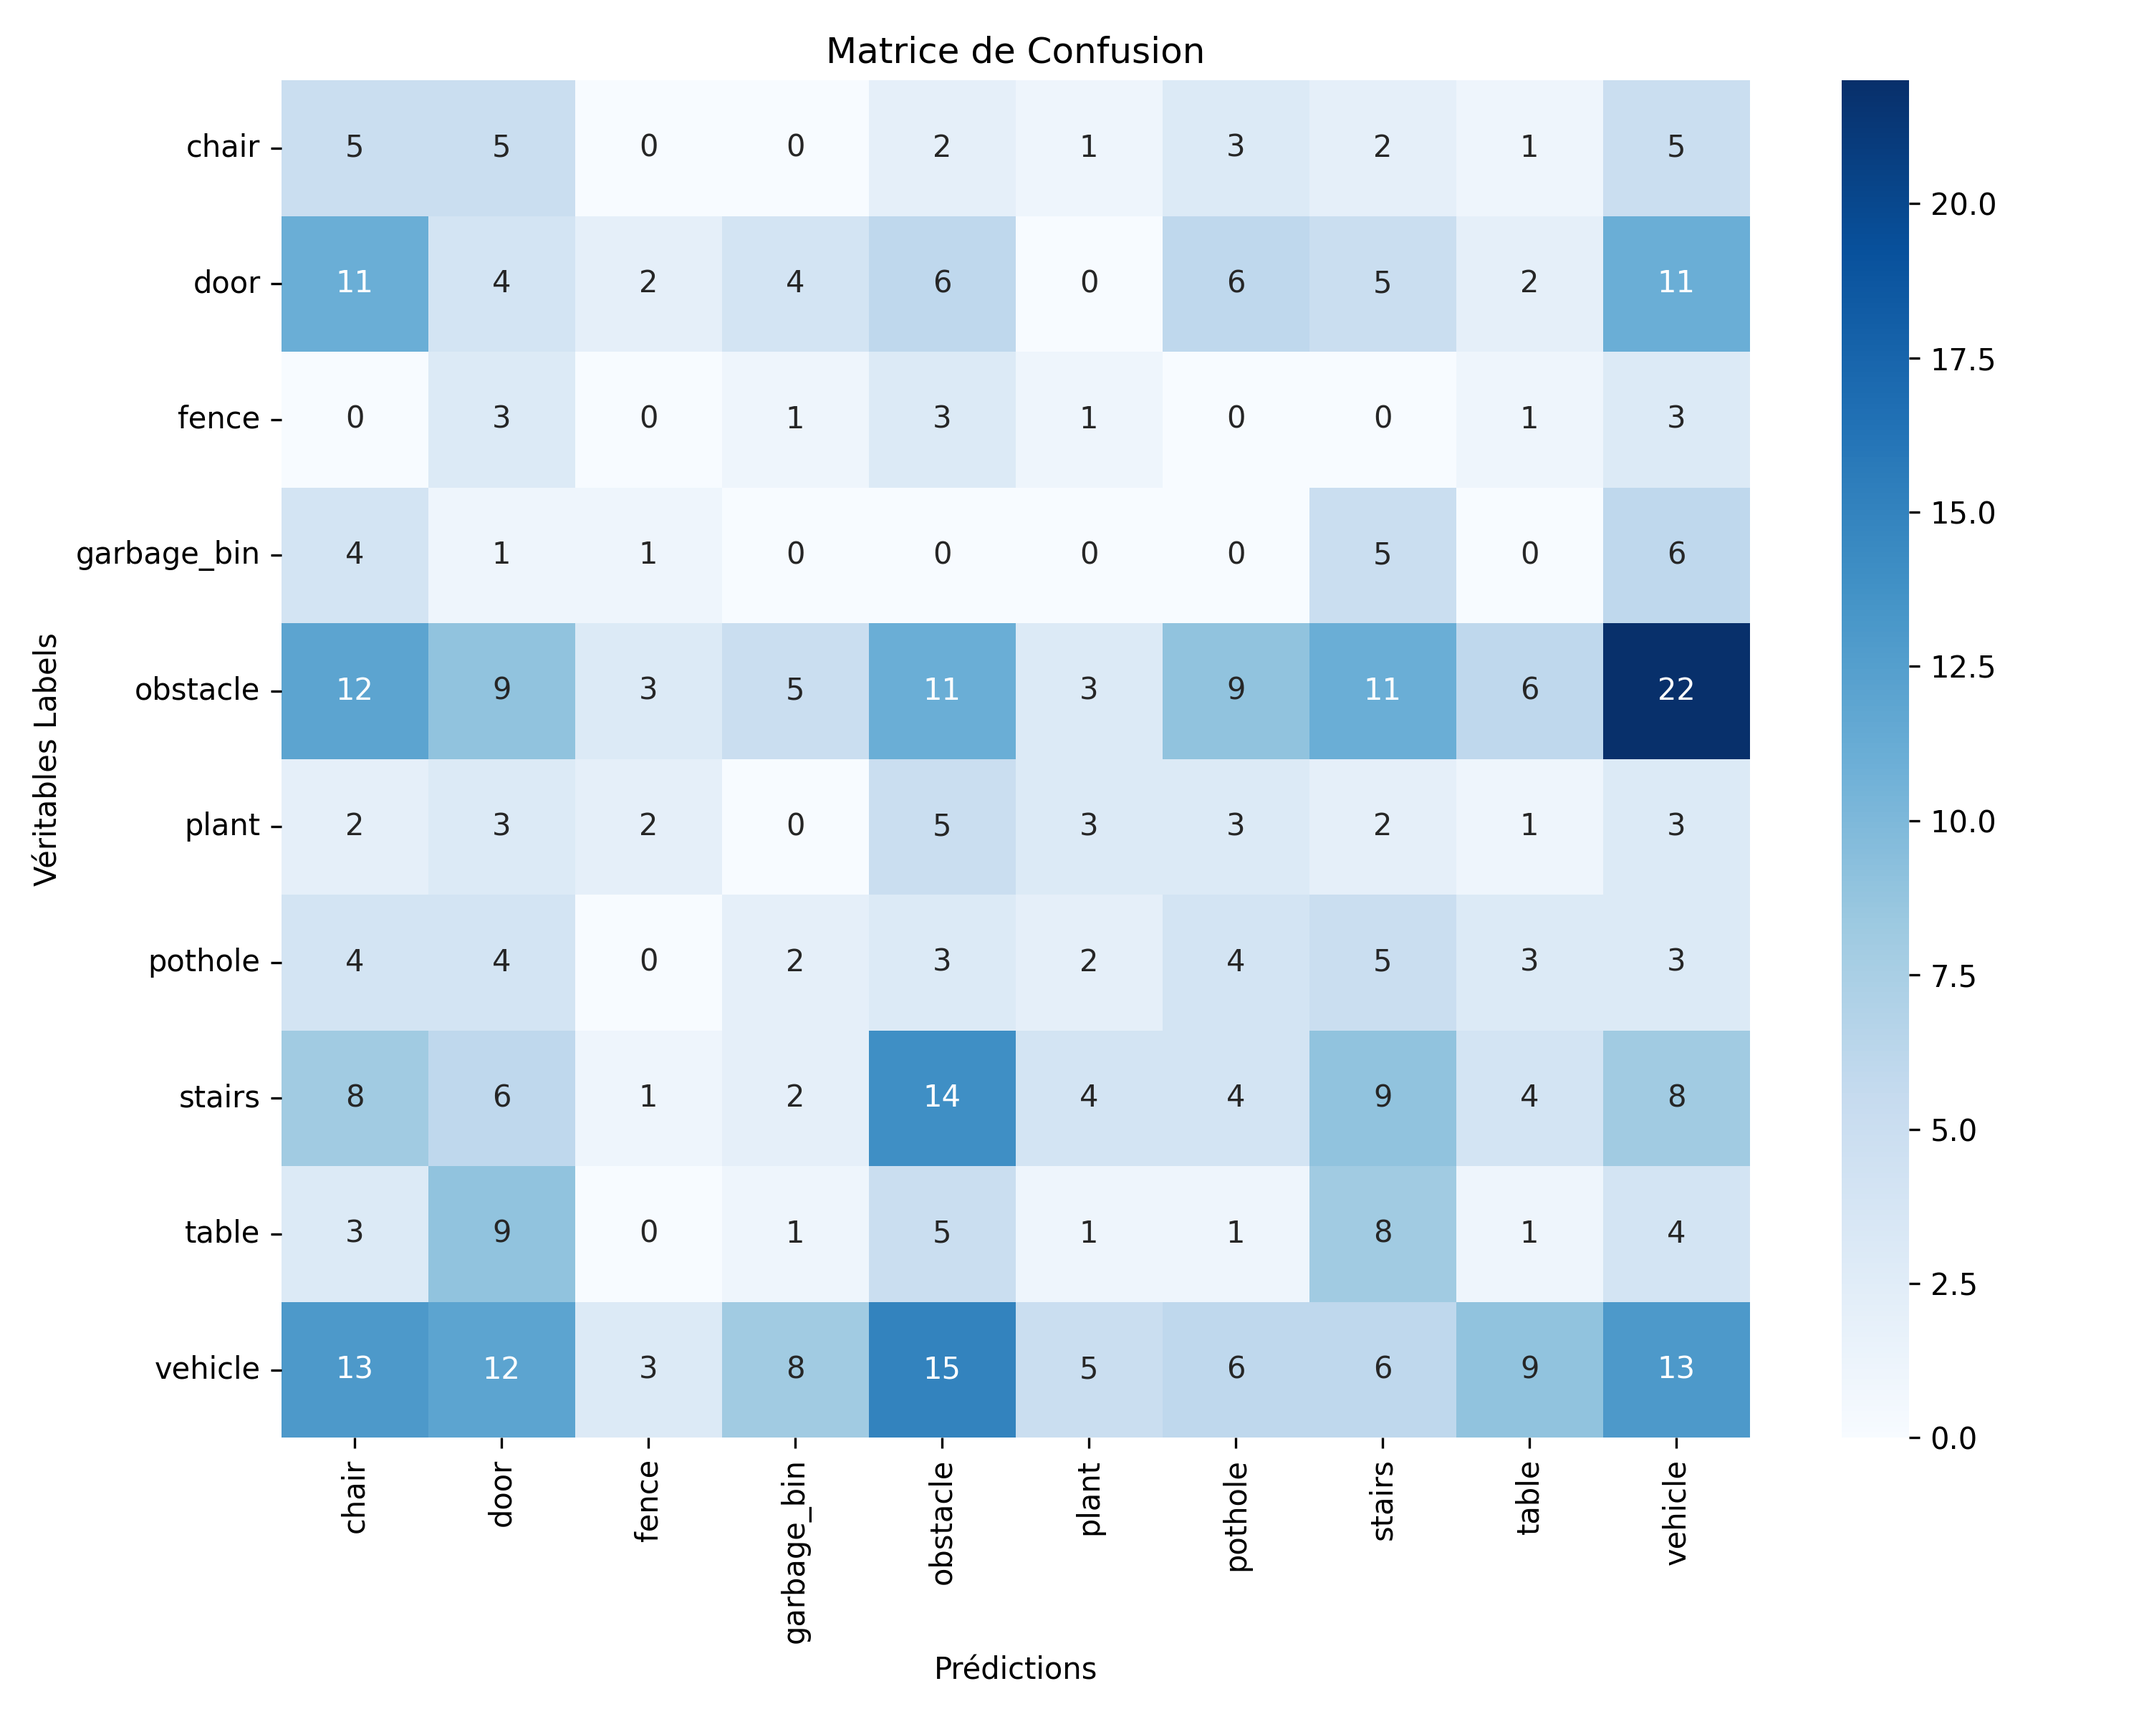
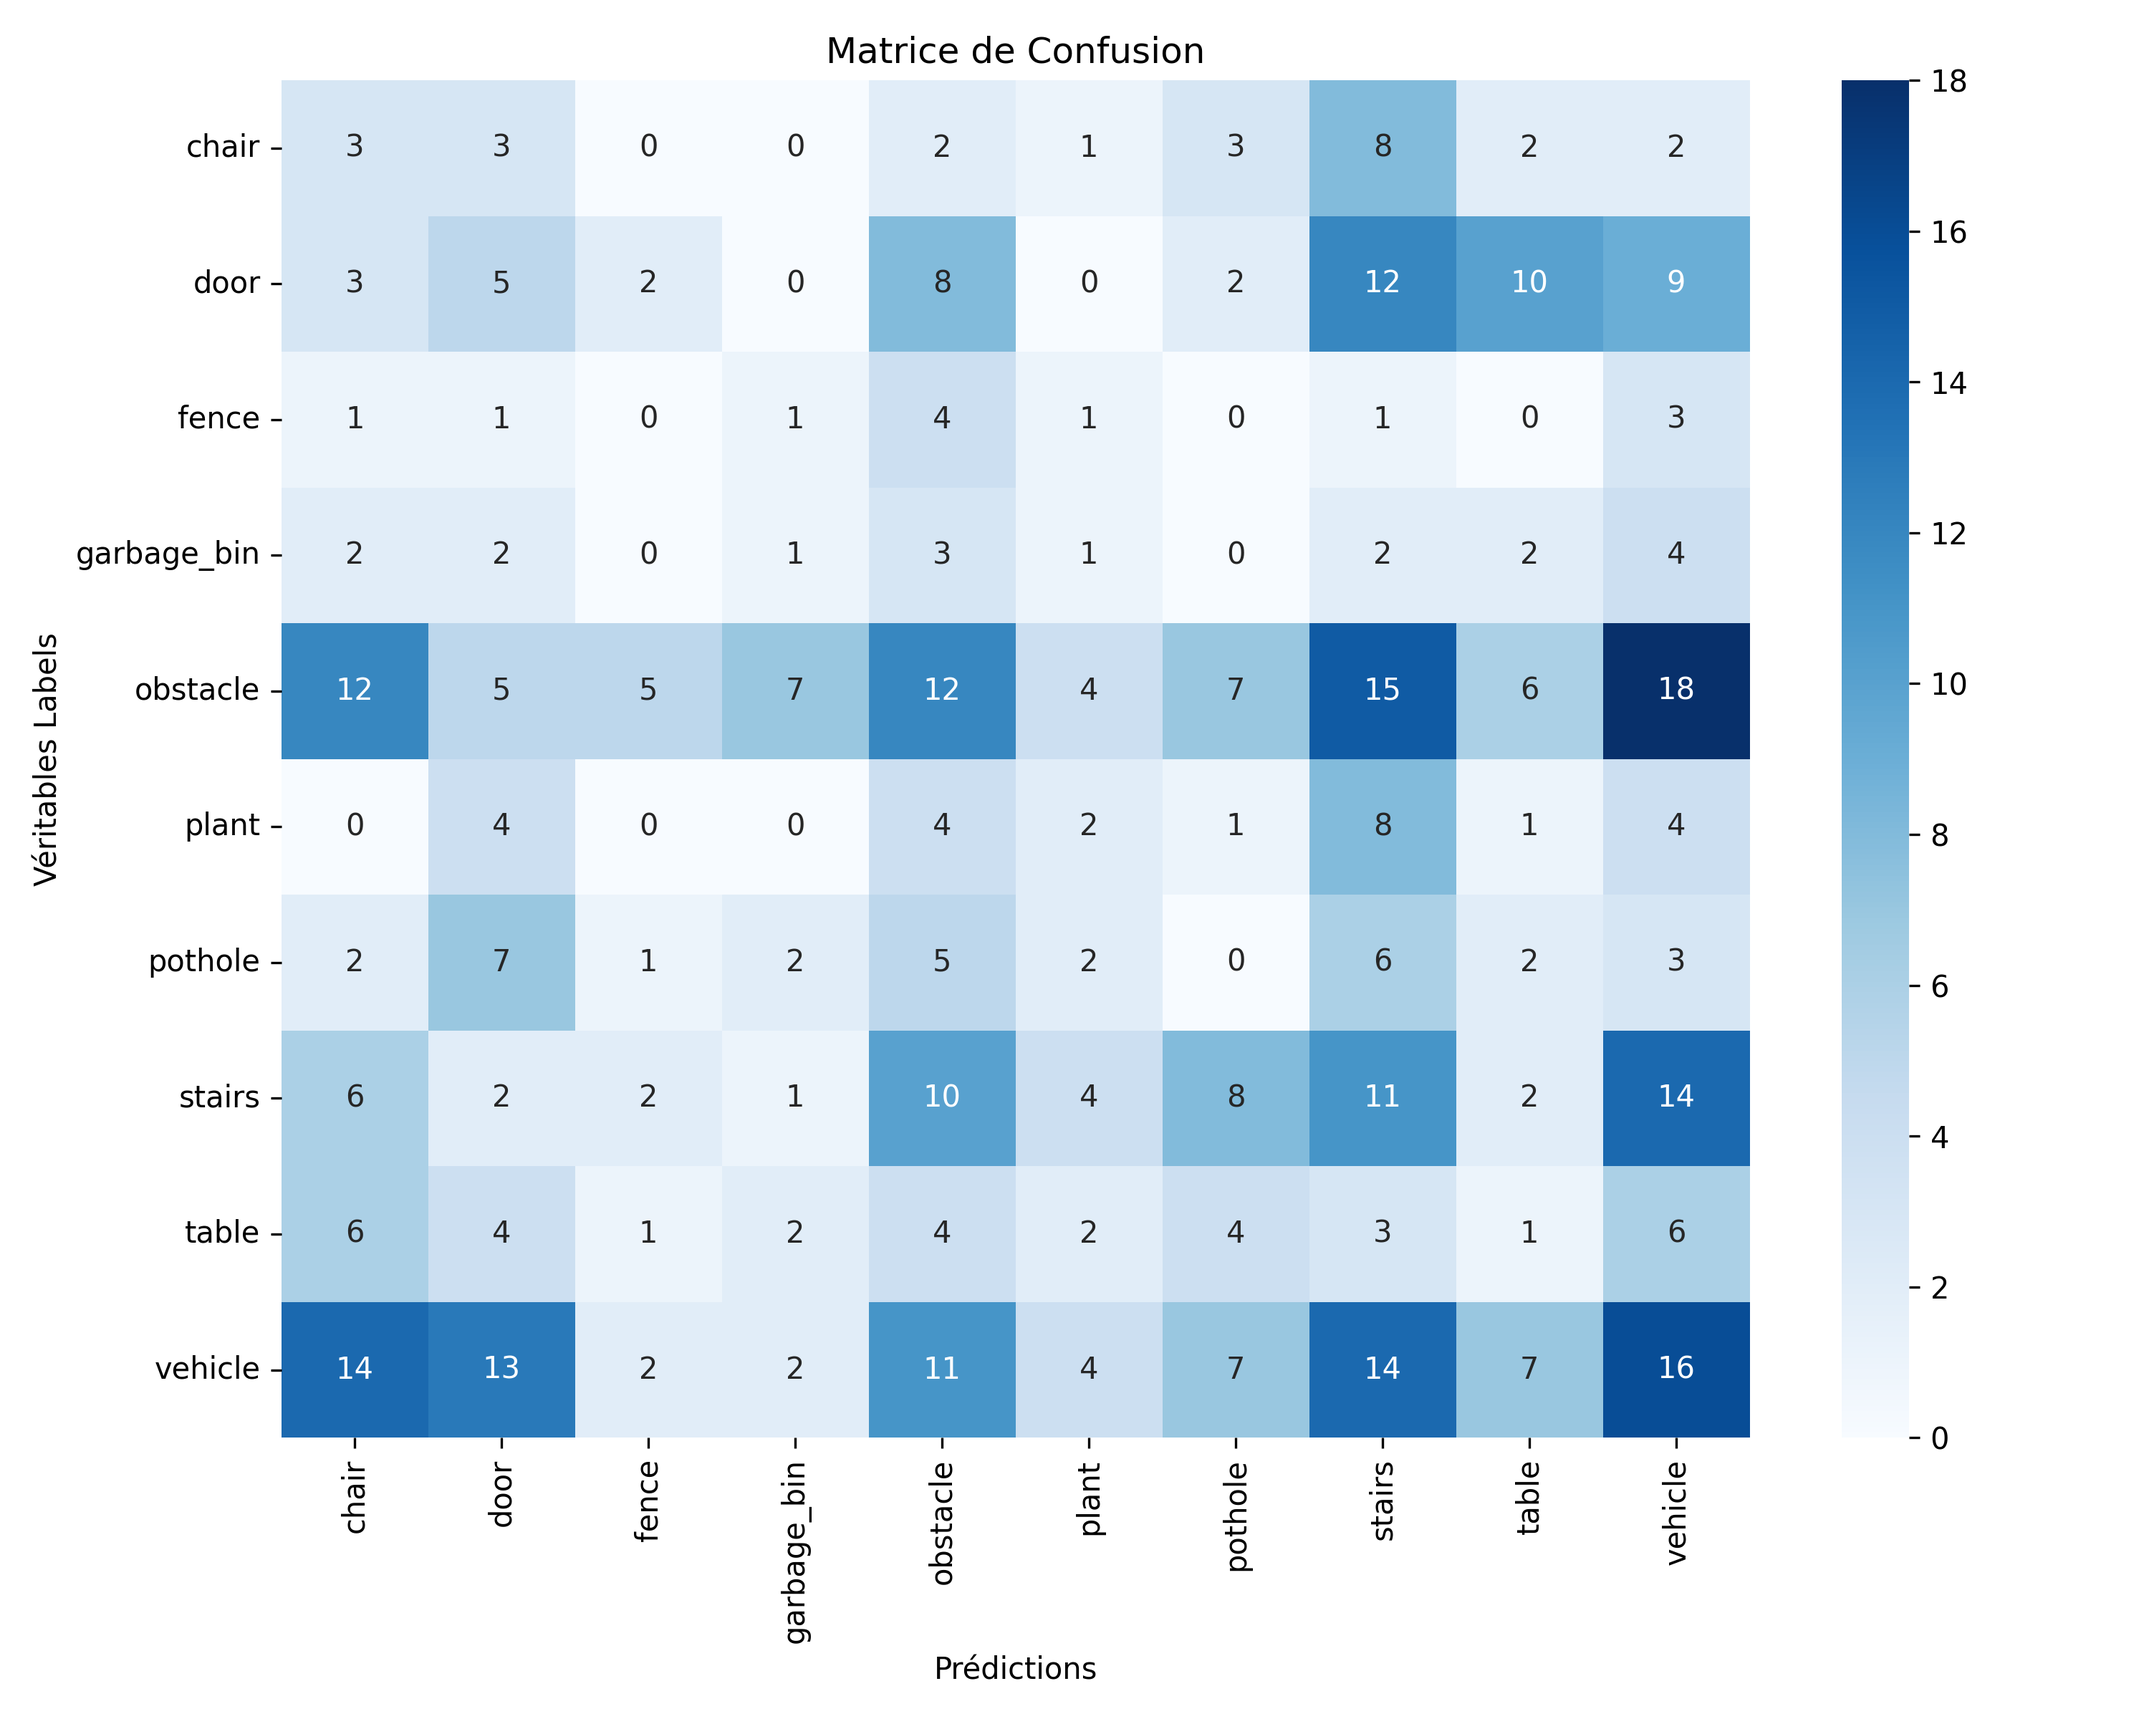
Fix: f1-score

diff --git a/train.py b/train.py
@@ -5,7 +5,8 @@ from tensorflow.keras.preprocessing.image import ImageDataGenerator
 import matplotlib.pyplot as plt
 import seaborn as sns
 import numpy as np
-from sklearn.metrics import confusion_matrix
+from sklearn.metrics import confusion_matrix, classification_report
+import pandas as pd
 
 # Charger et préparer les données
 path = "obstacles_dataset"
@@ -32,14 +33,14 @@ model.compile(optimizer='adam', loss='categorical_crossentropy', metrics=['accur
 # Entraînement du modèle avec historique
 history = model.fit(train_generator, validation_data=val_generator, epochs=10)
 
-# Évaluation
+# Évaluation sur le jeu de validation
 loss, accuracy = model.evaluate(val_generator)
 print(f'Loss: {loss}, Accuracy: {accuracy}')
 
 # Visualisation des métriques d'entraînement
 plt.figure(figsize=(12, 5))
 
-# Courbe d'accuracy
+# Graphique Accuracy
 plt.subplot(1, 2, 1)
 plt.plot(history.history['accuracy'], label='Train Accuracy')
 plt.plot(history.history['val_accuracy'], label='Validation Accuracy')
@@ -48,7 +49,7 @@ plt.xlabel('Epochs')
 plt.ylabel('Accuracy')
 plt.legend()
 
-# Courbe de loss
+# Graphique Loss
 plt.subplot(1, 2, 2)
 plt.plot(history.history['loss'], label='Train Loss')
 plt.plot(history.history['val_loss'], label='Validation Loss')
@@ -58,27 +59,49 @@ plt.ylabel('Loss')
 plt.legend()
 
 plt.tight_layout()
-plt.savefig('training_metrics.png', dpi=300)
+plt.savefig('metrics/training_metrics.png', dpi=300)
 plt.show()
 
-# Calcul et exportation de la matrice de confusion
-val_generator.reset()  # Réinitialise le générateur pour une prédiction cohérente
+# Calcul des prédictions sur le jeu de validation
+val_generator.reset()  # Pour s'assurer de repartir du début
 pred_probs = model.predict(val_generator)
-y_pred = np.argmax(pred_probs, axis=1)  # Prédiction de la classe avec la plus haute probabilité
+y_pred = np.argmax(pred_probs, axis=1)  # Classe prédite pour chaque image
 
-# Vraies étiquettes
+# Récupérer les vraies étiquettes et les noms de classes
 y_true = val_generator.classes
 class_names = list(val_generator.class_indices.keys())
 
-# Calcul de la matrice de confusion
+# Calcul et affichage de la matrice de confusion
 cm = confusion_matrix(y_true, y_pred)
-
-# Affichage de la matrice de confusion
 plt.figure(figsize=(10, 8))
 sns.heatmap(cm, annot=True, fmt='d', cmap='Blues', xticklabels=class_names, yticklabels=class_names)
 plt.xlabel('Prédictions')
 plt.ylabel('Véritables Labels')
 plt.title('Matrice de Confusion')
 plt.tight_layout()
-plt.savefig('confusion_matrix.png', dpi=300)
+plt.savefig('metrics/confusion_matrix.png', dpi=300)
 plt.show()
+
+# Calcul du rapport de classification
+report_dict = classification_report(y_true, y_pred, target_names=class_names, output_dict=True)
+
+# Conversion en DataFrame
+report_df = pd.DataFrame(report_dict).transpose()
+
+# Supprimer la ligne 'accuracy' 
+report_df_cleaned = report_df.drop(['accuracy'], errors='ignore')
+
+# Sélectionner uniquement les colonnes pertinentes
+metrics_to_plot = ['precision', 'recall', 'f1-score']
+report_plot = report_df_cleaned[metrics_to_plot]
+
+# Créer une heatmap
+plt.figure(figsize=(10, 6))
+sns.heatmap(report_plot, annot=True, cmap='YlGnBu', fmt=".2f", cbar=True)
+plt.title('Rapport de Classification - Précision, Rappel, F1-score')
+plt.xlabel('Métriques')
+plt.ylabel('Classes')
+plt.tight_layout()
+
+# Exporter en image PNG
+plt.savefig('metrics/classification_report_heatmap.png', dpi=300)
